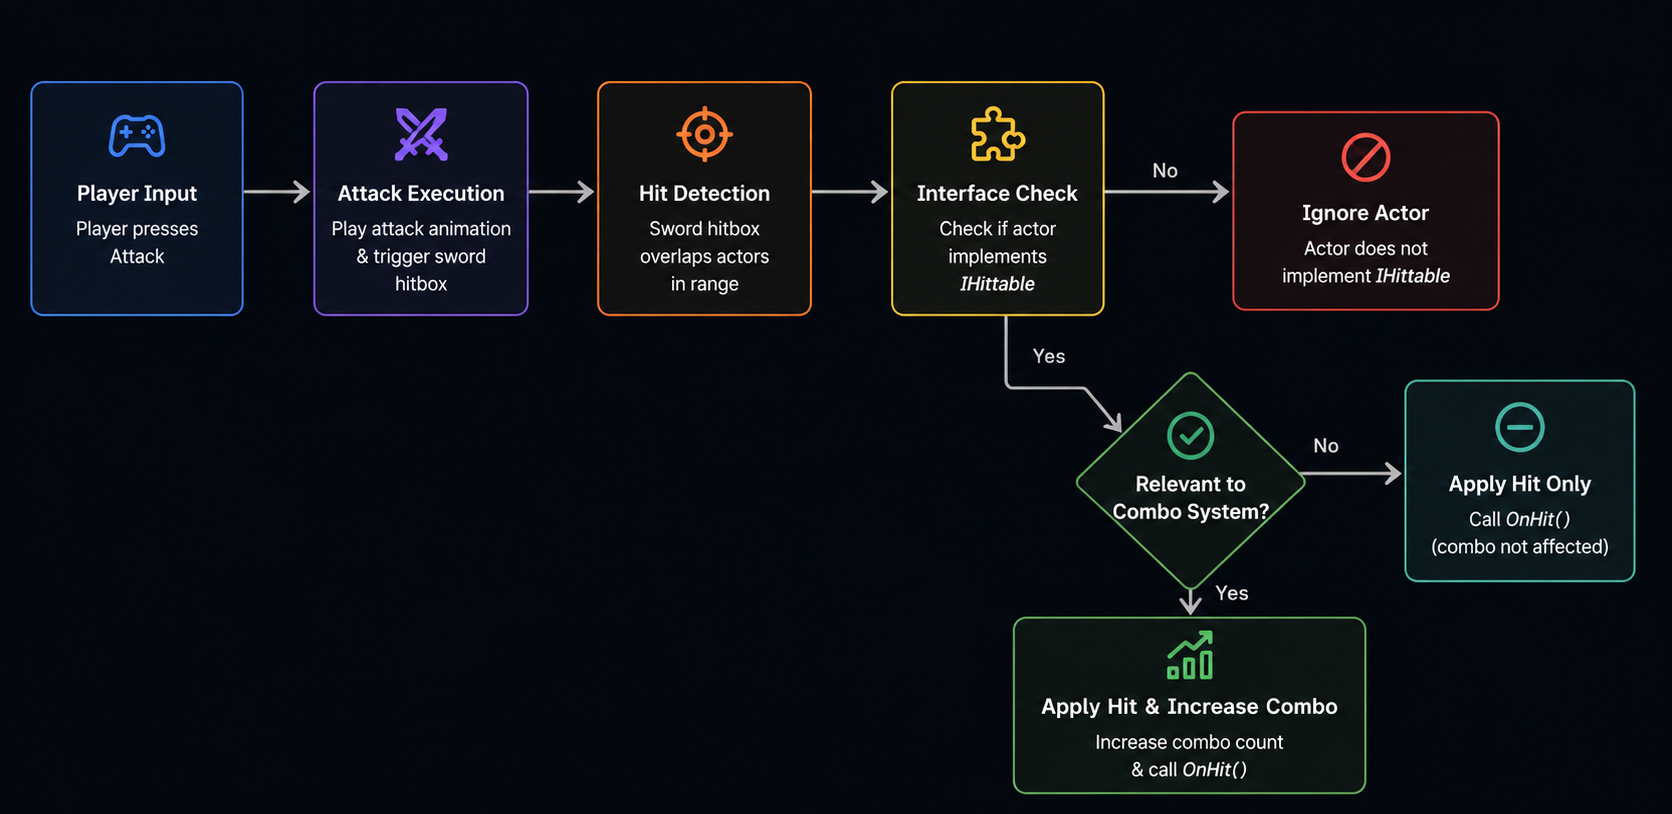
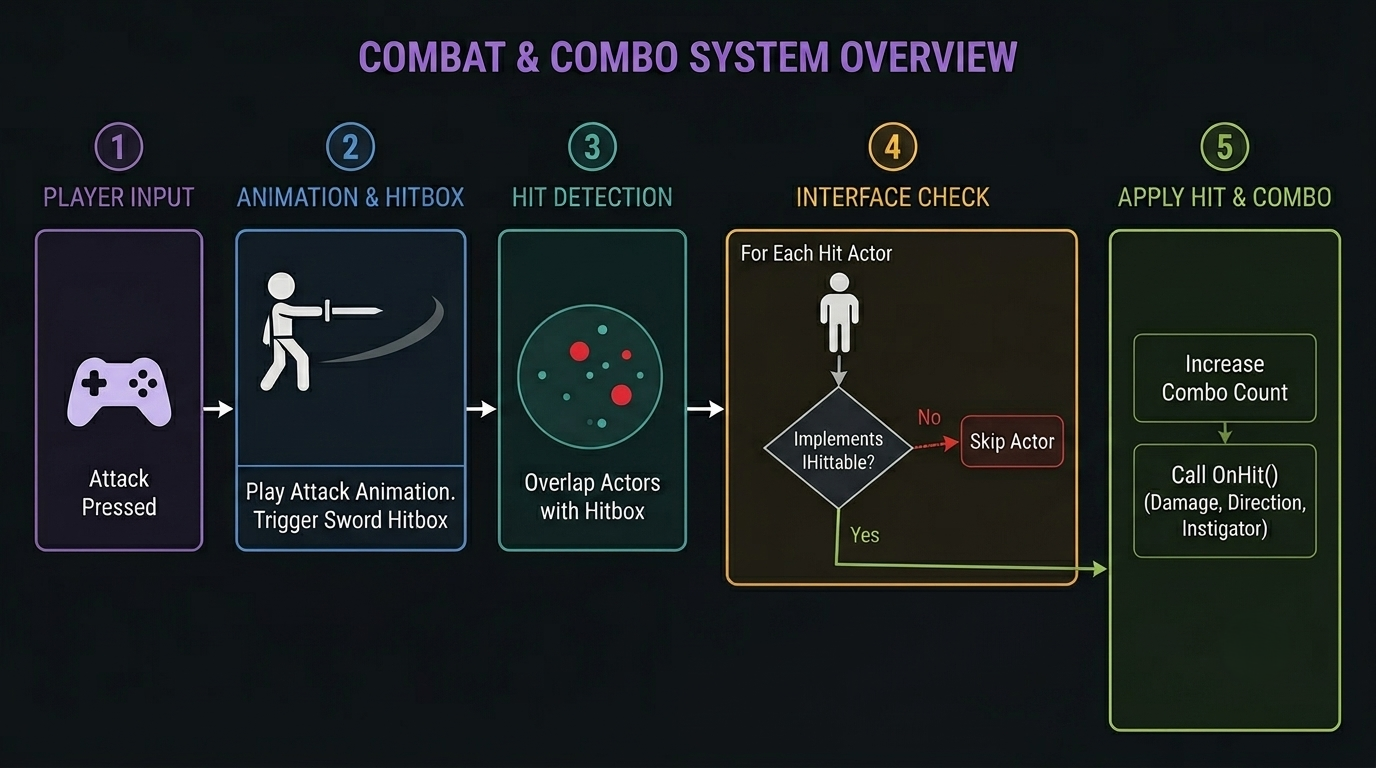
added entry TDD_CI-CD

Changed region(s): [[0.0, 0.0312, 1.0, 0.9688], [0.625, 0.9062, 0.8125, 1.0], [0.0, 0.625, 0.0312, 0.6875]]

diff --git a/Projects/SpaceWar_TDD_CI-CD/PageContent.html b/Projects/SpaceWar_TDD_CI-CD/PageContent.html
@@ -1,0 +1,225 @@
+<section class="project-section">    
+    <h2 class="project-section-title">Description</h2>
+    <p><b>CI-CD & TDD</b></p>
+
+    <p class="indented-text-content">
+        Continuous Integration and Continuous Deployment (CI/CD) automates the process of validating, building and distributing a project after every change.
+    </p>
+
+    <p class="indented-text-content">
+        The goal is to reduce manual work, detect issues earlier and guarantee that every version of the project is built in a reproducible environment.
+    </p>
+
+    <p class="indented-text-content">
+        Test-Driven Development (TDD) is a development methodology where tests are written before implementing the actual feature.
+    </p>
+
+    <p>
+        The workflow follows a short iteration cycle: write a failing test → implement the code required → refactor while keeping tests passing.
+    </p>
+</div>
+    </p>
+</section>
+
+<section class="project-section">
+    <h2 class="project-section-title">Content</h2>
+
+<br>
+<div class="project-text">
+    <p>
+        Unity integration is handled through GitHub Actions workflows.<br>
+        The pipeline is integrated directly with GitHub so source control becomes the entry point of the automation workflow.<br>
+        Every push triggers GitHub Actions, which executes the CI pipeline inside an isolated environment and performs the build process automatically.
+    </p>
+    
+    <p>
+        The pipeline fisrt installs the required Unity Editor version in batch mode to avoid opening the editor.
+        The editor version and dependencies are fully defined as code inside workflow files stored alongside the project. 
+        This guarantees every build runs with identical configuration regardless of the machine executing it.
+    </p>
+</div>
+
+<div class="media-slot">
+    <img
+        src="SpaceWar_TDD_CI-CD/Images/CI-CD_Pipeline.png"
+        alt="SpaceWar_TDD_CI-CD/Images/CI-CD_Pipeline.png"
+        height="100%" width="100%"
+    >
+</div>
+
+<div class="project-text">
+    <p>
+        The pipeline then tries to build the project. On build failure or test failure, the execution is immediatly aborted. This ensures that code on branches protected by the pipeline always works (produces a playable build) and is also compliant with the initial rules (set by the tests).
+        This ensures that no push accidentally breaks another feature without having to manually test everything manually.<br>
+        Though the set up might be cumbersome at first, it ends up greatly reducing the manual workload and the reliability of the product which is definitely worth it in the end.
+    </p>
+</div>
+<div class="media-slot">
+    <img
+        src="SpaceWar_TDD_CI-CD/Images/CI-CD_Failure.png"
+        alt="SpaceWar_TDD_CI-CD/Images/CI-CD_Failure.png"
+        height="100%" width="100%"
+    >
+</div>
+<br>    
+
+<div class="project-text">
+    <p>
+        Here s how it s implemented.<br><br>
+
+        Unity requires a license to use and you therefore have to provide some informations for Github to use ur license.
+        This is done through Github secrets (can be done through repository's settings tab). The secrets to provide are:
+    
+        <br> - UNITY_EMAIL (email used for your unity account)
+        <br> - UNITY_PASSWORD (password used for your unity account)
+        <br> - UNITY_LICENSE (your license's content)
+        
+        <br><br>
+        The next step is to setup the Unity project.
+        <br><br>
+
+        The game is contained within a Game folder with its own Assembly definiton and the code is in a Tests folder with another Assembly definition.
+        The Tests folder ensures Unity's build system doesn't pick it up in builds and the assembly definitions ensure it's kept in separate project (.csproj) and compiled independently.
+        <br><br>
+        As TDD intends, we first have to write the tests.
+    </p>
+</div>
+
+<div><pre><code class="language-csharp">
+using NUnit.Framework; // framework used for testing
+
+
+[TestFixture]
+public class PlayerTests
+{
+    private Player player;
+
+    [SetUp]
+    public void SetUp()
+    {
+        player = new Player();
+    }
+
+    [Test]
+    public void TakeDamage_Normal_ReducesHealth()
+    {
+        int damage = 20;
+        player.TakeDamage(damage);
+
+        Assert.AreEqual(player.BaseHealth - damage, player.Health);
+    }
+
+    ...
+}
+</code></pre></div>
+
+<div class="project-text">
+    <p><b>Code explanation</b></p>
+    <p>
+        [TestFixture] -> Attribute marking the class for the pipeline to pick it up
+        [SetUp] -> Attributes marking the method as the method to initialize the class before running each Test
+        [Test] -> Attributes marking the method as a test method
+        Assert -> Static class that defines wether the test succeeded or failed. If the assertion isn't correct the test has failed
+    </p>
+
+    <p>
+        The SetUp() method makes sure the test is run on a untouched instance of the class.<br>
+        The TakeDamage_Normal_ReducesHealth() method make sure the player actually takes damage when the TakeDamage method is called. The naming convention is MethodItsTesting_Scenario_ExpectedResult.<br>
+        We intentionally avoid hardcoded/magic values to avoid issues because they are error prone and often rely on assumptions (example on why below)
+    </p>
+</div>
+<div><pre><code class="language-csharp">
+// same method but poorly implemented
+[Test]
+public void TakeDamage_Normal_ReducesHealth()
+{
+    player.TakeDamage(20); // we decide to apply 20 damage
+
+    Assert.AreEqual(80, player.Health);
+    // the 80 value seems to come out of nowhere (mostly cause it kinda does)
+    // here 80 is based on several assumptions:
+    // 1 -> assumes base health is 100 (will break the test if the base health ever change)
+    // 2 -> assumes correct maths and no typos
+    // (any maths failure or typo would result in an incorrect result)
+}
+</code></pre></div>
+
+<div class="project-text">
+    <p>
+        We can now write the code to fulfill the test.
+    </p>
+</div>
+
+<div><pre><code class="language-csharp">
+public sealed class Player
+{
+    public const int BaseHealth = 100;
+    public int Health { get; private set; } = BaseHealth;
+
+    public void TakeDamage(int amount)
+    {
+        Health = Mathf.Max(0, Health - amount);
+    }
+
+    ...
+}
+</code></pre></div>
+
+<div class="project-text">
+    <p>
+        This minimal implementation passes the test however the only test we implemented is not sufficient are there are still some flaws.
+        For instance, dealing negative damage would heal. if that is intended behaviour, then great but it should be tested nevertheless.
+        That is why we developp an entire set of test to test edge-cases.
+    </p>
+</div>
+
+
+<div><pre><code class="language-csharp">
+// PlayerTests.cs
+[Test]
+public void TakeDamage_WithNegativeAmount_DoesNotChangeHealth()
+{
+    player.TakeDamage(-10);
+
+    Assert.AreEqual(player.BaseHealth, player.Health);
+}
+// this simple test highlights that issue and forces us to adapt the code
+
+// Player.cs
+public void TakeDamage(int amount)
+{
+    if (amount <=  0)
+        return;
+
+    Health = Mathf.Max(0, Health - amount);
+}
+
+</code></pre></div>
+
+<div class="project-text">
+    <p>
+        Any modification of the method will still need to comply with the tests and therefore avoid breaking behaviour.
+    </p>
+    <p>
+        Here's what a successful push looks like
+    </p>
+</div>
+
+<div class="media-slot">
+    <img
+        src="SpaceWar_TDD_CI-CD/Images/SuccessfulTest.png"
+        alt="SpaceWar_TDD_CI-CD/Images/SuccessfulTest.png"
+        height="100%" width="100%"
+    >
+</div>
+
+<div class="project-text">
+    <p>
+        This is why TDD and CI-CD are great.
+        We write tests according to the intended behaviour.<br>
+        We then write the code to comply with these tests and therfore with the intended behaviour.<br>
+        Then, the CI-CD pipeline runs the tests and protected your code from breaking.
+    </p>
+</div>
+
+</section>

diff --git a/Data.js b/Data.js
@@ -74,6 +74,16 @@ const TECH_STACK =
         TechName: "ImGUI",
         TechDesc: "Graphical user interface library for fast and lightweight debugging tools and editor interfaces."
     },
+
+    {
+        TechName: " GitHub",
+        TechDesc: "Distributed version control and collaboration platform for code hosting, pull requests, and issue tracking. Includes GitHub Actions for CI/CD pipelines, enabling automated builds, testing, and deployment workflows integrated directly into repositories."
+    },
+
+    {
+        TechName: " GitHubActions",
+        TechDesc: "CI/CD automation system integrated into GitHub repositories, used to define workflows for building, testing, and deploying applications. Supports event-driven pipelines triggered by pushes, pull requests, schedules, and manual dispatch, with reusable actions and self-hosted or hosted runners.",
+    },
 ];
 
 const UNITY = 0;
@@ -91,6 +101,8 @@ const ASSIMP = 11;
 const MINIAUDIO = 12;
 const DIRECTX11 = 13;
 const IMGUI = 14;
+const GITHUB = 15;
+const GITHUB_ACTIONS = 16;
 
 // {
 //     ProjectName: "NAME OF THE FOLDER RELATED TO THAT PROJECT",
@@ -119,13 +131,13 @@ const PROJECTS =
         Repo: "https://github.com/Yalt-167/TicTacToeMultiplayer",
     },
 
-    // { // Oath of the volcano
-    //     ProjectName: "OathOfTheVolcano",
-    //     DisplayName: "Oath Of The Volcano",
-    //     ShortDesc: "Small Unreal Engine roguelike in which the player is locked in a 60s time loop",
-    //     TechStack: [UNREAL_ENGINE],
-    //     Repo: "https://github.com/AriLeGrand/Oath-of-the-volcano",
-    // }, 
+    { // Oath of the volcano
+        ProjectName: "OathOfTheVolcano",
+        DisplayName: "Oath Of The Volcano",
+        ShortDesc: "Small Unreal Engine roguelike in which the player is locked in a 60s time loop",
+        TechStack: [UNREAL_ENGINE],
+        Repo: "https://github.com/AriLeGrand/Oath-of-the-volcano",
+    }, 
 
     // { // fps netcode
     //     ProjectName: "FPS_Netcode",
@@ -171,6 +183,14 @@ const PROJECTS =
     //     TechStack: [UNREAL_ENGINE],
     //     Repo: "https://github.com/MagnierHugo/Click-Crash",
     // },
+
+    {
+        ProjectName: "SpaceWar_TDD_CI-CD",
+        DisplayName: "TDD and CI-CD project",
+        ShortDesc: "Small project aiming at setting up an TDD and CI-CD architecture and understand their purpose",
+        TechStack: [UNITY, GITHUB, GITHUB_ACTIONS],
+        Repo: "https://github.com/Yalt-167/SpaceWar_TDD_CI-CD",
+    },
 ];
 
 console.log("Data loaded");

diff --git a/Projects/OathOfTheVolcano/PageContent.html b/Projects/OathOfTheVolcano/PageContent.html
@@ -53,11 +53,11 @@
     </p>
 </div>
 
-<div class="media-slot todo-media">
+<div class="media-slot">
     <img
         src="OathOfTheVolcano/Images/GameLoopManagement/IGameFlowAffectedInterface.png"
         alt="OathOfTheVolcano/Images/GameLoopManagement/IGameFlowAffectedInterface.png"
-        height="100%" width="100%"
+        height="100%"
     >
 </div>
 
@@ -68,7 +68,7 @@
     </p>
 </div>
 
-<div class="media-slot todo-media">
+<div class="media-slot">
     <img
         src="OathOfTheVolcano/Images/GameLoopManagement/WhoImplementsIGameFlowAffected.png"
         alt="OathOfTheVolcano/Images/GameLoopManagement/WhoImplementsIGameFlowAffected.png"
@@ -98,7 +98,7 @@
     </p>
 </div>
 
-<div class="media-slot todo-media">
+<div class="media-slot">
     <img
         src="OathOfTheVolcano/Images/GameLoopManagement/GameFlowOverview.png"
         alt="OathOfTheVolcano/Images/GameLoopManagement/GameFlowOverview.png"
@@ -136,10 +136,10 @@
     </p>
 </div>
 
-<div class="media-slot todo-media">
+<div class="media-slot">
     <img
-        src="OathOfTheVolcano/Images/CombatSystem/IHittableInterface.png"
-        alt="OathOfTheVolcano/Images/CombatSystem/IHittableInterface.png"
+        src="OathOfTheVolcano/Images/CombatSystem/IHittableInterfaceDiagram.png"
+        alt="OathOfTheVolcano/Images/CombatSystem/IHittableInterfaceDiagram.png"
         width="100%" height="100%"
     >
 </div>